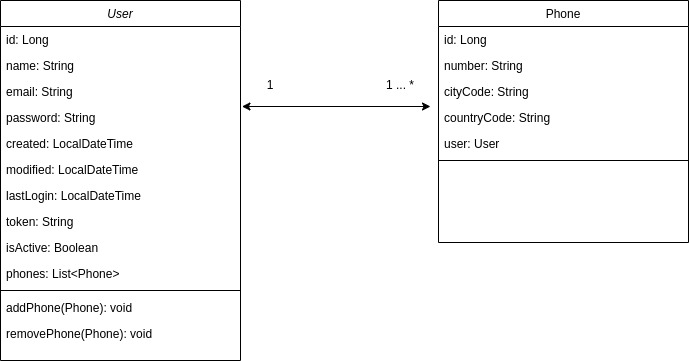
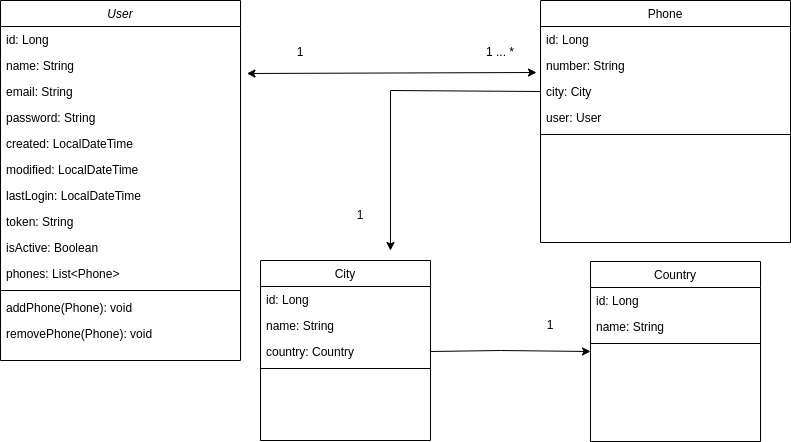
update model, scripts, exceptions and picture

diff --git a/src/main/java/com/challenge/nisum/service/impl/UserService.java b/src/main/java/com/challenge/nisum/service/impl/UserService.java
@@ -1,14 +1,11 @@
 package com.challenge.nisum.service.impl;
 
-import com.challenge.nisum.exception.CityNotFoundException;
-import com.challenge.nisum.exception.CountryNotFoundException;
+import com.challenge.nisum.exception.CityOrCountryNotFoundException;
 import com.challenge.nisum.exception.UserExistingException;
 import com.challenge.nisum.model.City;
-import com.challenge.nisum.model.Country;
 import com.challenge.nisum.model.Phone;
 import com.challenge.nisum.model.User;
 import com.challenge.nisum.repository.CityRepository;
-import com.challenge.nisum.repository.CountryRepository;
 import com.challenge.nisum.repository.UserRepository;
 import com.challenge.nisum.request.PhoneRequest;
 import com.challenge.nisum.request.UserRequest;
@@ -31,8 +28,6 @@ public class UserService implements IUserService {
 
     @Autowired
     private CityRepository cityRepository;
-    @Autowired
-    private CountryRepository countryRepository;
     @Autowired
     private UserRepository userRepository;
 
@@ -62,15 +57,16 @@ public class UserService implements IUserService {
     }
 
     private Phone fromPhoneRequestToPhone(PhoneRequest phoneRequest) {
-        Country country = countryRepository.findById(Long.parseLong(phoneRequest.getCountryCode()))
-                .orElseThrow(() ->
-                        new CountryNotFoundException("No existe el pais con id: "+phoneRequest.getCountryCode()));
+        City city = cityRepository.findByIdAndCountryId(Long.parseLong(phoneRequest.getCityCode()),
+                                                        Long.parseLong(phoneRequest.getCountryCode()))
+                        .orElseThrow(() -> {
+                            logger.error("City {} or country {} not found", phoneRequest.getCityCode(), phoneRequest.getCountryCode());
 
-        City city = cityRepository.findById(Long.parseLong(phoneRequest.getCityCode()))
-                .orElseThrow(() ->
-                        new CityNotFoundException("No existe la ciudad con id: "+phoneRequest.getCityCode()));
+                            return new CityOrCountryNotFoundException("No existe la relacion entre la ciudad con id: " + phoneRequest.getCityCode() +
+                                    " y el pais con id: "+phoneRequest.getCountryCode());
+                        });
 
-        return new Phone(phoneRequest.getNumber(), city, country);
+        return new Phone(phoneRequest.getNumber(), city);
     }
 
     public User findById(Long id){

diff --git a/src/main/java/com/challenge/nisum/controller/ControllerAdvice.java b/src/main/java/com/challenge/nisum/controller/ControllerAdvice.java
@@ -1,6 +1,7 @@
 package com.challenge.nisum.controller;
 
 import com.challenge.nisum.dto.ErrorDTO;
+import com.challenge.nisum.exception.CityOrCountryNotFoundException;
 import com.challenge.nisum.exception.UserExistingException;
 import org.springframework.http.HttpStatus;
 import org.springframework.http.ResponseEntity;
@@ -18,6 +19,15 @@ public class ControllerAdvice {
 
     @ExceptionHandler(value = UserExistingException.class)
     public ResponseEntity<ErrorDTO> userExistingExceptionHandler(UserExistingException e){
+        ErrorDTO errorDTO = ErrorDTO.builder()
+                .message(e.getMessage())
+                .build();
+
+        return new ResponseEntity<>(errorDTO, HttpStatus.UNPROCESSABLE_ENTITY);
+    }
+
+    @ExceptionHandler(value = CityOrCountryNotFoundException.class)
+    public ResponseEntity<ErrorDTO> cityOrCountryNotFoundExceptionHandler(CityOrCountryNotFoundException e){
         ErrorDTO errorDTO = ErrorDTO.builder()
                 .message(e.getMessage())
                 .build();

diff --git a/src/main/java/com/challenge/nisum/model/Phone.java b/src/main/java/com/challenge/nisum/model/Phone.java
@@ -27,10 +27,6 @@ public class Phone {
     @JoinColumn(name="city_code", nullable=false)
     private City city;
 
-    @ManyToOne(fetch = FetchType.LAZY)
-    @JoinColumn(name="country_code", nullable=false)
-    private Country country;
-
     @ManyToOne
     @JoinColumn(name = "user_id")
     private User user;
@@ -41,7 +37,6 @@ public class Phone {
                 "id=" + id +
                 ", number='" + number + '\'' +
                 ", city=" + city +
-                ", country=" + country +
                 ", user=" + user +
                 '}';
     }
@@ -49,9 +44,8 @@ public class Phone {
     public Phone() {
     }
 
-    public Phone(String number, City city, Country country) {
+    public Phone(String number, City city) {
         this.number = number;
         this.city = city;
-        this.country = country;
     }
 }

diff --git a/src/main/java/com/challenge/nisum/model/City.java b/src/main/java/com/challenge/nisum/model/City.java
@@ -22,12 +22,16 @@ public class City {
     @NotNull(message = "El nombre es obligatorio")
     private String name;
 
+    @ManyToOne(fetch = FetchType.LAZY)
+    @JoinColumn(name="country_code", nullable=false)
+    private Country country;
+
     @Override
     public String toString() {
-        return "Country{" +
+        return "City{" +
                 "id=" + id +
                 ", name='" + name + '\'' +
+                ", country=" + country +
                 '}';
     }
-
 }

diff --git a/src/main/java/com/challenge/nisum/repository/CityRepository.java b/src/main/java/com/challenge/nisum/repository/CityRepository.java
@@ -5,6 +5,10 @@ import com.challenge.nisum.model.Country;
 import org.springframework.data.repository.CrudRepository;
 import org.springframework.stereotype.Repository;
 
+import java.util.Optional;
+
 @Repository
 public interface CityRepository extends CrudRepository<City, Long> {
+
+    Optional<City> findByIdAndCountryId(Long id, Long countryId);
 }

diff --git a/src/main/java/com/challenge/nisum/exception/CityOrCountryNotFoundException.java b/src/main/java/com/challenge/nisum/exception/CityOrCountryNotFoundException.java
@@ -1,0 +1,8 @@
+package com.challenge.nisum.exception;
+
+public class CityOrCountryNotFoundException extends RuntimeException{
+
+    public CityOrCountryNotFoundException(String message){
+        super(message);
+    }
+}
